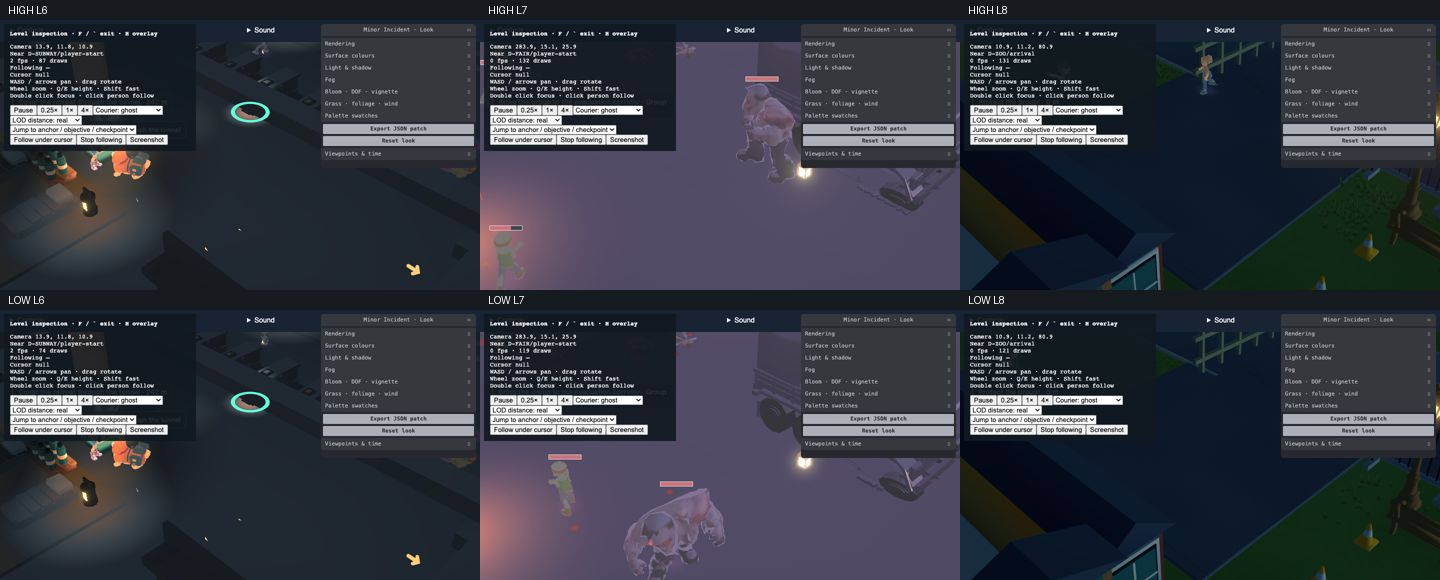
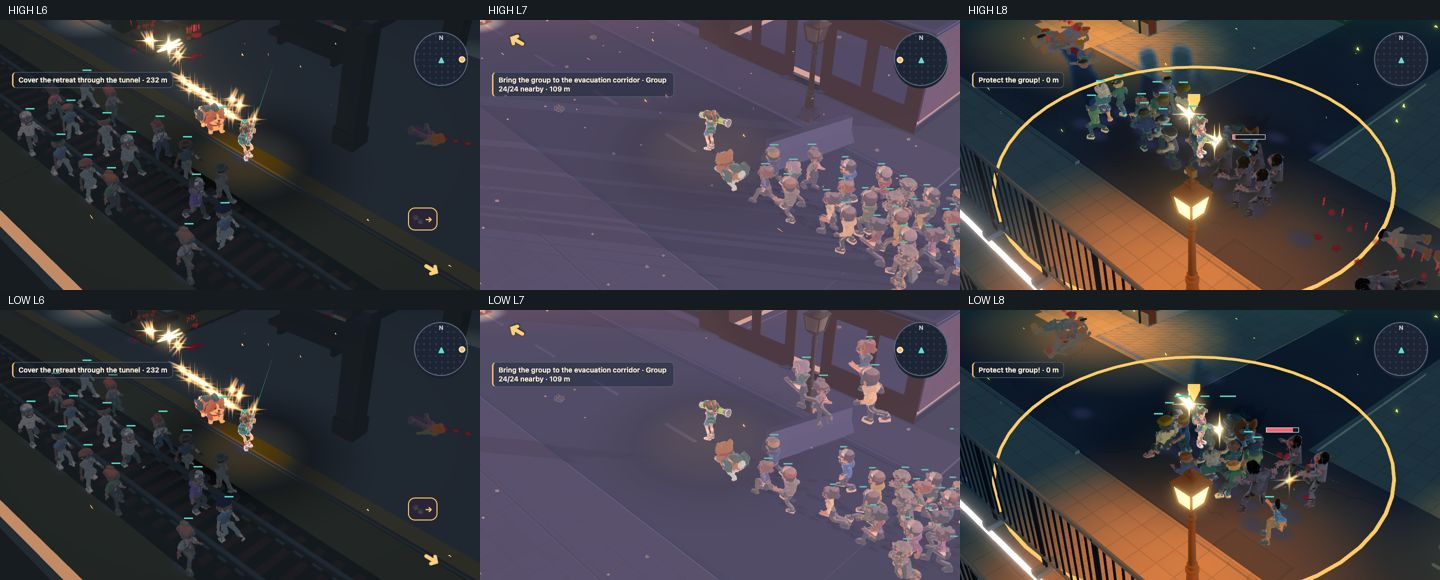
Confirm moving escorts at HIGH and LOW with follow camera

diff --git a/docs/reports/s148-escortpace/README.md b/docs/reports/s148-escortpace/README.md
@@ -41,3 +41,5 @@ Required full remote rerun PASSED on runner 46.225.66.90: `sh tools/remote/run.s
 Browser render check ran HIGH then LOW through `tools/e2e-lock.sh`, one headless browser at a time, Metal WebGL2, E2E_PORT=5033/SCENE_PORT=5034, 600-second reservations. All six captures had no error-guard errors. Inspected `escort-sheet.jpg`: rendering works at both tiers, but Inspection's camera remained at starting views with its panels covering much of the scene; these frames **do not establish escort movement acceptance**. The first attempt stopped because Inspection has no L7 complete bot; retry used TestAPI bot.start. Browser process/server closed. Independent normal-route policy and useful moving-escort browser confirmation remain open.
 
 Independent L7 corridor walk: `node --import tsx/esm tools/qa/escort-walk.ts /private/tmp/s148-straight-l7 --straight-l7`. LOW seed 1; fixed authored street waypoints, unit straight-line input between points, `walk:true`, no follower-state reads or follower waits in corridor movement. Shared pickup/combat/boarding interactions remain. Completed 208.83 s, saved 24/24, no wait/attack/lost prompts, estimated waiting/returns zero in every segment; corridor p90 gap 7.59 m, boarding 5.65 m. Typecheck/lint pass. This establishes the independent normal-route sample for L7 only; L6/L8 still need equivalent independent movement policies and before/after comparisons.
+
+Corrected browser confirmation supersedes the starting-view sheet above. Harness now calls TestAPI `loadLevel`, `missions.begin`, `bot.start('complete')`, pauses and steps simulation, then follows the courier with the normal camera. HIGH then LOW, seed 1, Metal WebGL2, one headless pool browser, 5033/5034, 600 s reservation. L6 at 4,200 ticks shows the moving tunnel column under fire; L7 at 3,000 ticks shows the following street formation (HUD 24/24 nearby); L8 at 10,000 ticks shows the group fighting inside the plaza protection ring. All six error guards empty; process/server closed normally. Inspected replacement `escort-sheet.jpg`: visible group, courier and fighting in all panels without Inspection overlays. This is visual confirmation at selected escort moments, not an independent timing measurement. Remaining: independent normal-route L6/L8 samples and matching route-policy comparisons.
